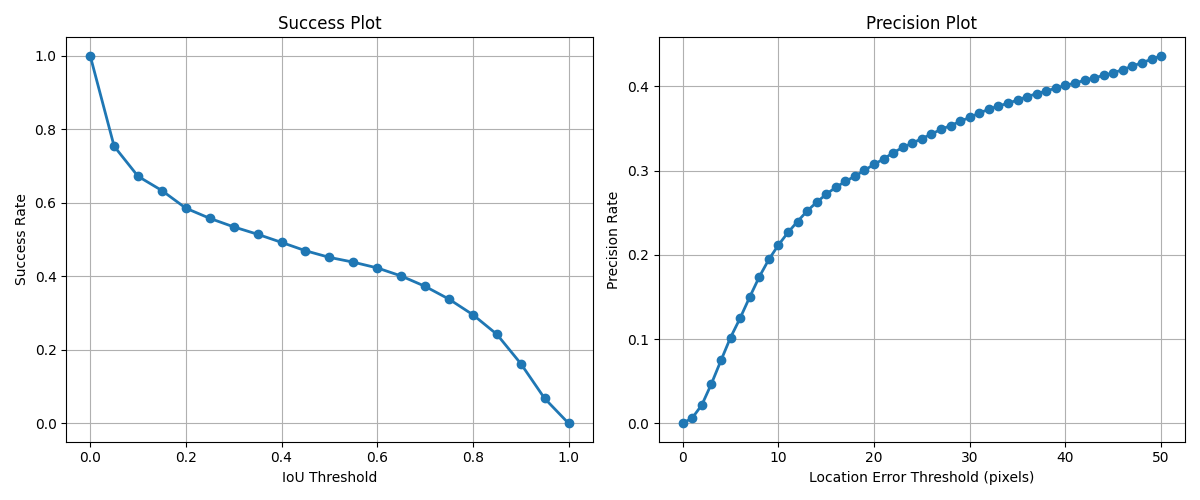
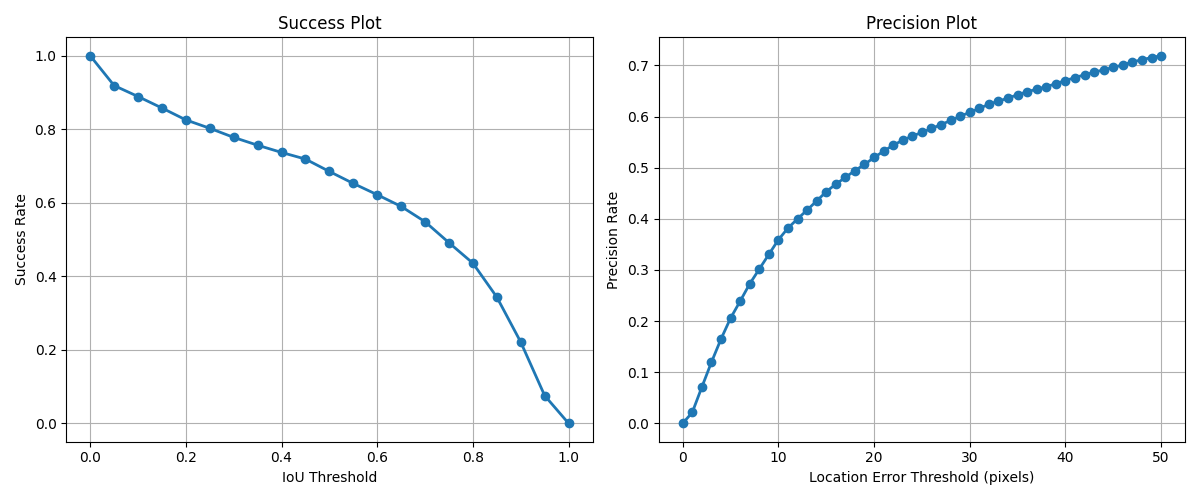
debugging evaluation

diff --git a/evaluation/VidOR_use_case/VidOR_od_and_ar.py b/evaluation/VidOR_use_case/VidOR_od_and_ar.py
@@ -12,8 +12,8 @@ import matplotlib.pyplot as plt
 # AGGIORNATO CON IL NUOVO PERCORSO LINUX
 GT_BASE_PATH = "/home/ludovico/workspace/AA-STAL/data_pipeline/DATA_ROOT/groundtruth/VidOR"
 VIDEO_ORIGINAL_PATH = "/home/ludovico/workspace/AA-STAL/data_pipeline/DATA_ROOT/Videos_crop"
-OD_RESULTS_PATH = "/mnt/c/Users/ludov/UNIVERSITA/SECONDO ANNO/TESI/Risultati/video_general_obj_det_partial-dino"
-AR_RESULTS_PATH = "/mnt/c/Users/ludov/UNIVERSITA/SECONDO ANNO/TESI/Risultati/action_recognition_finished-example"
+OD_RESULTS_PATH = "/home/ludovico/workspace/AA-STAL/data_pipeline/DATA_ROOT/video_general_obj_det_partial-owl"
+AR_RESULTS_PATH = "/home/ludovico/workspace/AA-STAL/data_pipeline/DATA_ROOT/action_recognition_finished-example"
 
 AZIONI_CONSENTITE = [
     "lift", "carry", "push", "pull", "pass", "lean_on", "touch", "hit", "play(instrument)", "grab",
@@ -23,7 +23,6 @@ AZIONI_CONSENTITE = [
     "shake_hand_with"
 ]
 
-VALID_ACTIONS = {norm_act(a) for a in AZIONI_CONSENTITE}
 
 IOU_MATCH_THRESHOLD = 0.3
 
@@ -39,6 +38,8 @@ def natural_keys(text):
 def norm_act(act_string):
     """Normalizza le label per evitare mismatch testuali (es. 'lean_on' -> 'lean on')."""
     return str(act_string).lower().replace('_', ' ').strip()
+
+VALID_ACTIONS = {norm_act(a) for a in AZIONI_CONSENTITE}
 
 def compute_iou(box1, box2):
     x_left = max(box1[0], box2[0])
@@ -138,24 +139,80 @@ def load_vidor_gt(json_path):
     return gt_frames
 
 
-def load_pred_actions(action_json_path):
-    frame_actions = {}
-    with open(action_json_path, 'r') as f:
+# ==========================================
+# 3. LETTURA DATI
+# ==========================================
+def load_vidor_gt(json_path):
+    with open(json_path, 'r') as f:
         data = json.load(f)
+
+    frame_count = data.get("frame_count", 0)
+    if frame_count == 0 and "trajectories" in data:
+        frame_count = len(data["trajectories"])
         
-    for time_key, actions in data.items():
-        match = re.search(r'frames_(\d+)_to_(\d+)', time_key)
-        if match:
-            start_f = int(match.group(1))
-            end_f = int(match.group(2))
-            act_set = set([norm_act(a) for a in actions])
-            
-            for i in range(start_f, end_f):
-                if i not in frame_actions:
-                    frame_actions[i] = set()
-                frame_actions[i].update(act_set)
+    gt_frames = [{} for _ in range(frame_count)]
+
+    # 1. Estrazione Bounding Box (NESSUN FILTRO: carica tutti gli oggetti, umani e non)
+    if "trajectories" in data:
+        for f_idx, frame_objs in enumerate(data.get("trajectories", [])):
+            if f_idx >= frame_count:
+                break
+            for obj in frame_objs:
+                tid = obj.get("tid")
+                bbox = obj.get("bbox")
                 
-    return frame_actions
+                if tid is not None:
+                    if isinstance(bbox, dict):
+                        xmin, ymin = bbox.get("xmin"), bbox.get("ymin")
+                        xmax, ymax = bbox.get("xmax"), bbox.get("ymax")
+                        if None not in (xmin, ymin, xmax, ymax):
+                            gt_frames[f_idx][tid] = {
+                                "bbox": [xmin, ymin, xmax, ymax],
+                                "actions": set()
+                            }
+                    elif isinstance(bbox, list) and len(bbox) == 4:
+                        x, y, w, h = bbox
+                        gt_frames[f_idx][tid] = {
+                            "bbox": [x, y, x + w, y + h],
+                            "actions": set()
+                        }
+
+    # 2. Estrazione Azioni (Mantiene il filtro AZIONI_CONSENTITE)
+    relations = data.get("relation_instances", [])
+    actions = data.get("action_instances", [])
+    
+    for action_inst in (relations + actions):
+        if isinstance(action_inst, dict):
+            act_class = action_inst.get("predicate") or action_inst.get("action_class") or action_inst.get("category")
+            subj_tid = action_inst.get("subject_tid")
+            if subj_tid is None:
+                subj_tid = action_inst.get("tid")
+                
+            start_f = action_inst.get("begin_fid")
+            end_f = action_inst.get("end_fid")
+            
+            if act_class is not None and subj_tid is not None and start_f is not None and end_f is not None:
+                act_class_norm = norm_act(act_class)
+                if act_class_norm in VALID_ACTIONS:
+                    for f_idx in range(start_f, end_f):
+                        if f_idx < frame_count and subj_tid in gt_frames[f_idx]:
+                            gt_frames[f_idx][subj_tid]["actions"].add(act_class_norm)
+                            
+        elif isinstance(action_inst, list) and len(action_inst) >= 4:
+            act_class_norm = norm_act(action_inst[0])
+            if act_class_norm in VALID_ACTIONS:
+                subj_tid = action_inst[1]
+                
+                if len(action_inst) == 5:
+                    start_f, end_f = action_inst[3], action_inst[4]
+                else:
+                    start_f, end_f = action_inst[-2], action_inst[-1]
+                
+                for f_idx in range(start_f, end_f):
+                    if f_idx < frame_count and subj_tid in gt_frames[f_idx]:
+                        gt_frames[f_idx][subj_tid]["actions"].add(act_class_norm)
+
+    return gt_frames
 
 def build_scene_predictions(od_json_path, action_jsons, video_w, video_h):
     with open(od_json_path, 'r') as f:
@@ -173,14 +230,19 @@ def build_scene_predictions(od_json_path, action_jsons, video_w, video_h):
     track_actions_map = {}
     for a_json in action_jsons:
         match = re.search(r'(person_\d+)_actions', a_json)
+        # Se il tuo AR processa anche altri oggetti, puoi generalizzare la regex qui. 
+        # Attualmente legge i JSON che contengono "_actions"
+        if not match:
+            # Fallback se il nome file non ha "person_X" ma magari "dog_X_actions"
+            match = re.search(r'([a-zA-Z0-9_]+)_actions', os.path.basename(a_json))
+            
         if match:
             track_id = match.group(1)
             track_actions_map[track_id] = load_pred_actions(a_json)
 
     for obj_key, obj_val in detected_objects.items():
-        if "person" not in obj_val.get("class_name", "").lower():
-            continue
-            
+        # RIMOSSO IL FILTRO "PERSON". Lasciamo passare tutti gli oggetti!
+        
         bboxes = obj_val.get("bbox", [])
         track_id = obj_key 
         